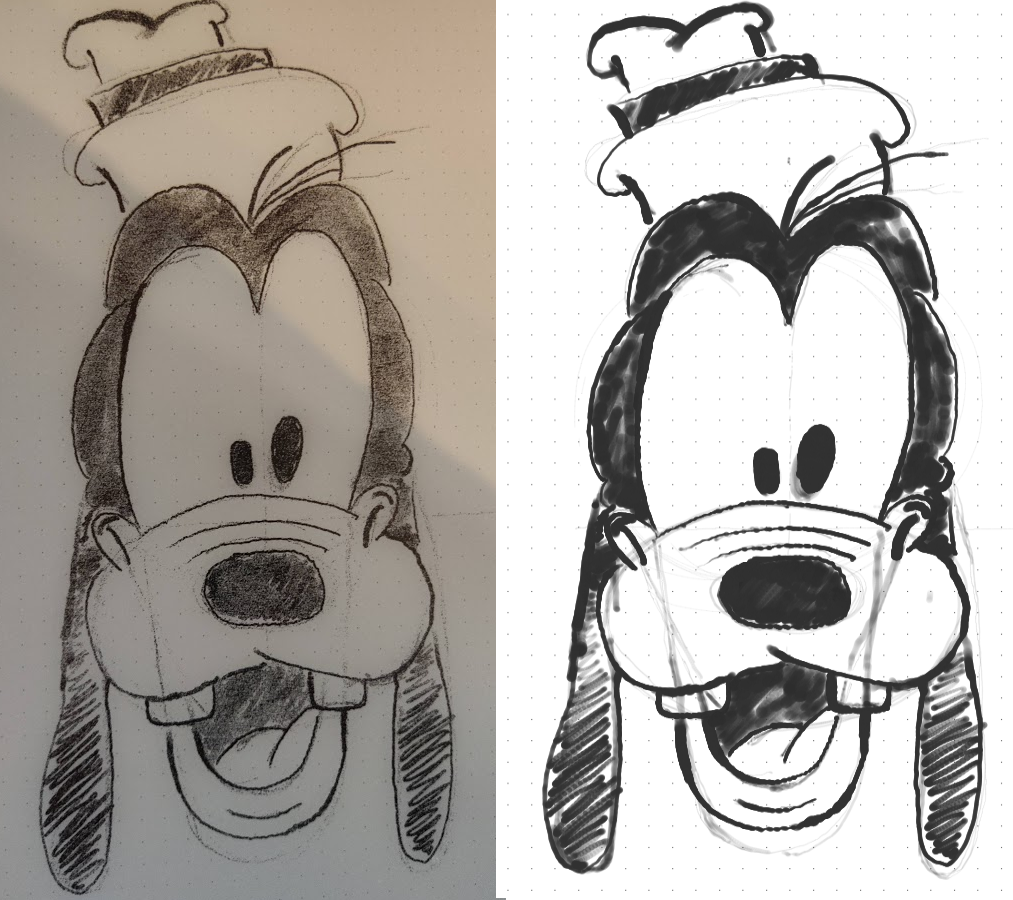
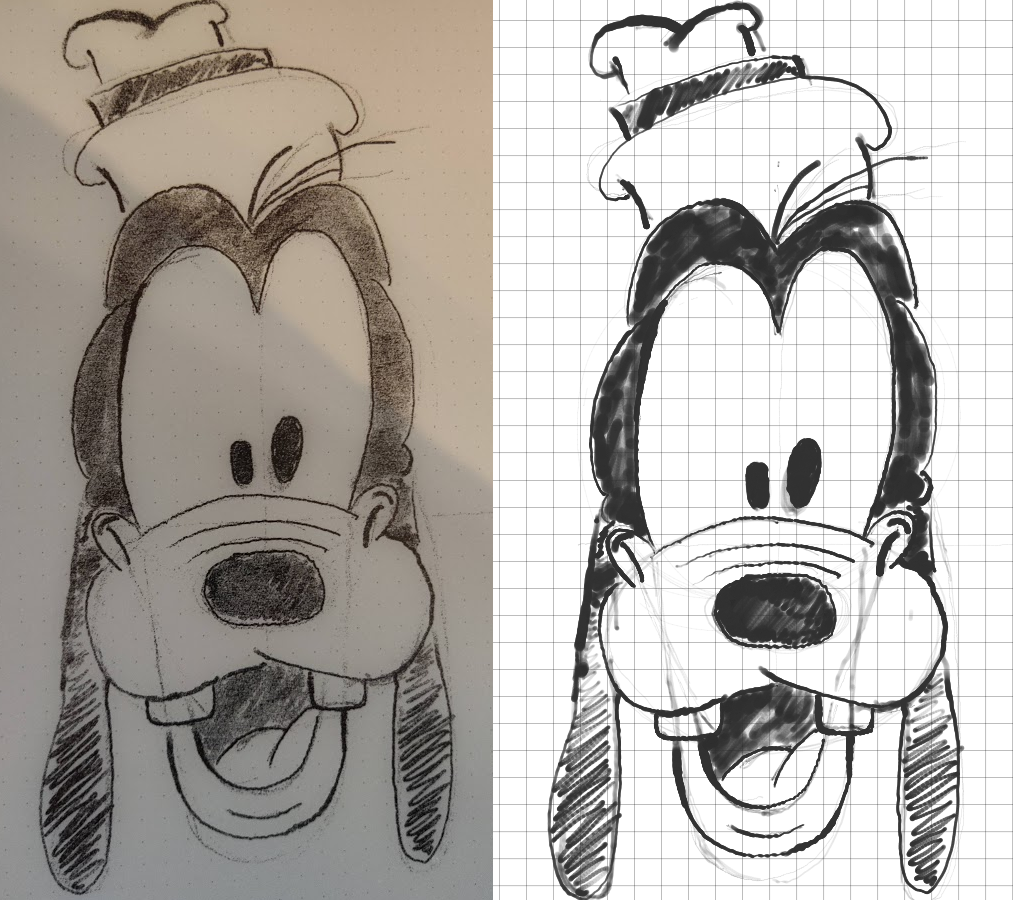
Minor improvements

Changed region(s): [[0.4896, 0.0, 1.0, 1.0]]

diff --git a/model/render.py b/model/render.py
@@ -323,6 +323,7 @@ def _render_rm_file(rm_file_name, image_width=DEFAULT_IMAGE_WIDTH,
             # such that we have access to the next and previous points
             drawing = Drawing(image_width, image_height)
             can.setLineCap(0 if is_highlighter else 1)
+
             for i in range(2, len(segment_points), 2):
                 can.setStrokeColor(segment_colors[int(i/2)])
                 can.setLineWidth(segment_widths[int(i/2)])
@@ -424,7 +425,7 @@ class Pencil(Pen):
         self.name = "Pencil"
 
     def get_segment_width(self, speed, tilt, width, pressure, last_width):
-        segment_width = 0.7 * ((((0.8*self.base_width) + (0.5 * pressure)) * (1 * width)) - (0.25 * tilt**1.8) - (0.6 * speed / 50))
+        segment_width = 0.5 * ((((0.8*self.base_width) + (0.5 * pressure)) * (1 * width)) - (0.25 * tilt**1.8)) #- (0.6 * speed / 50))
         #segment_width = 1.3*(((self.base_width * 0.4) * pressure) - 0.5 * ((tilt ** 0.5)) + (0.5 * last_width))
         max_width = self.base_width * 10
         segment_width = segment_width if segment_width < max_width else max_width
